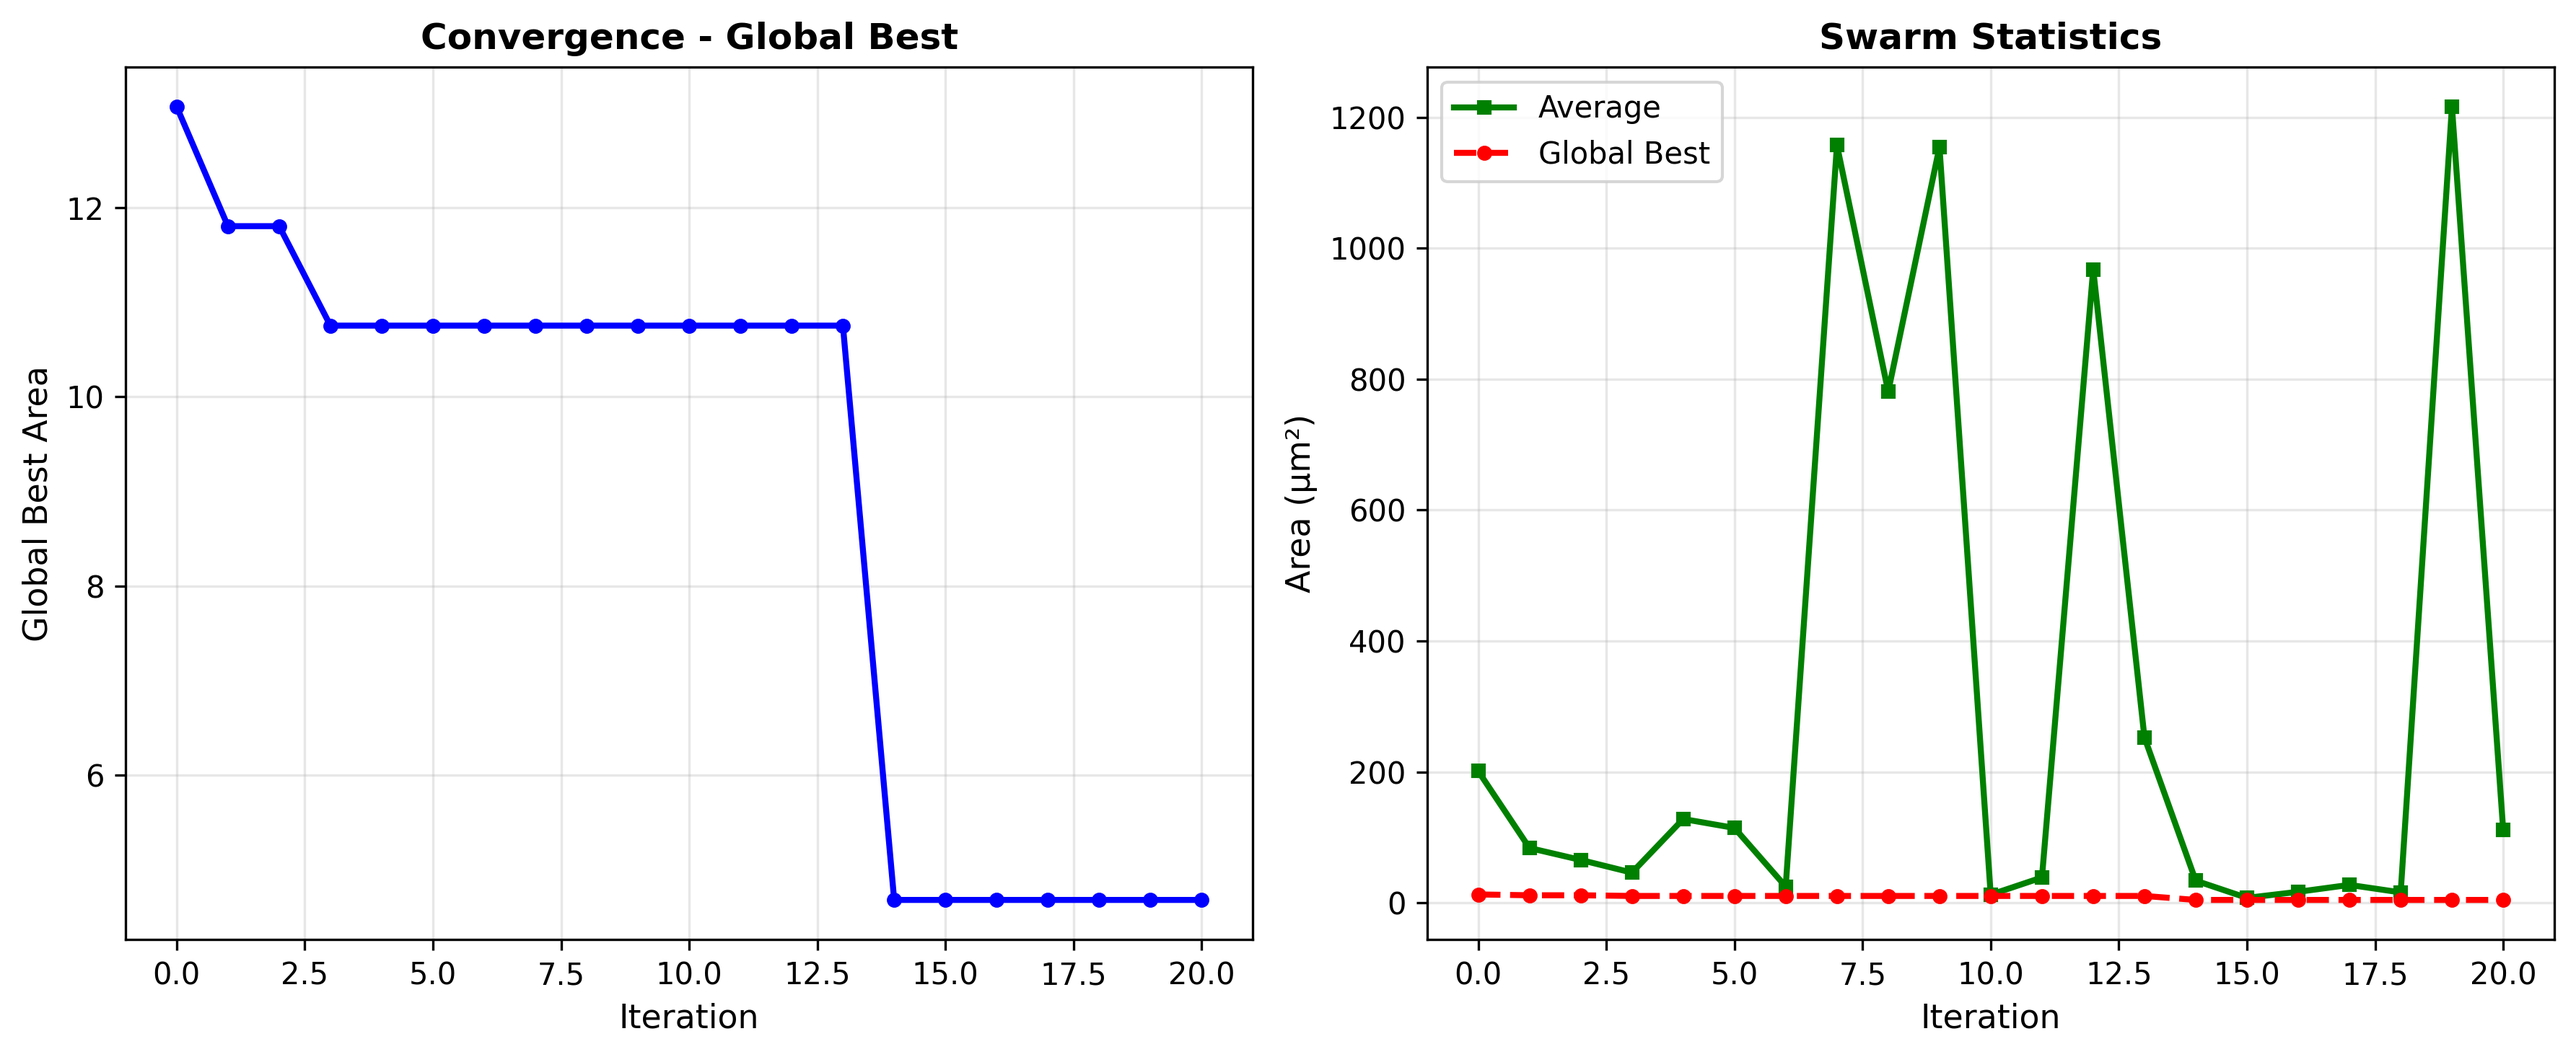
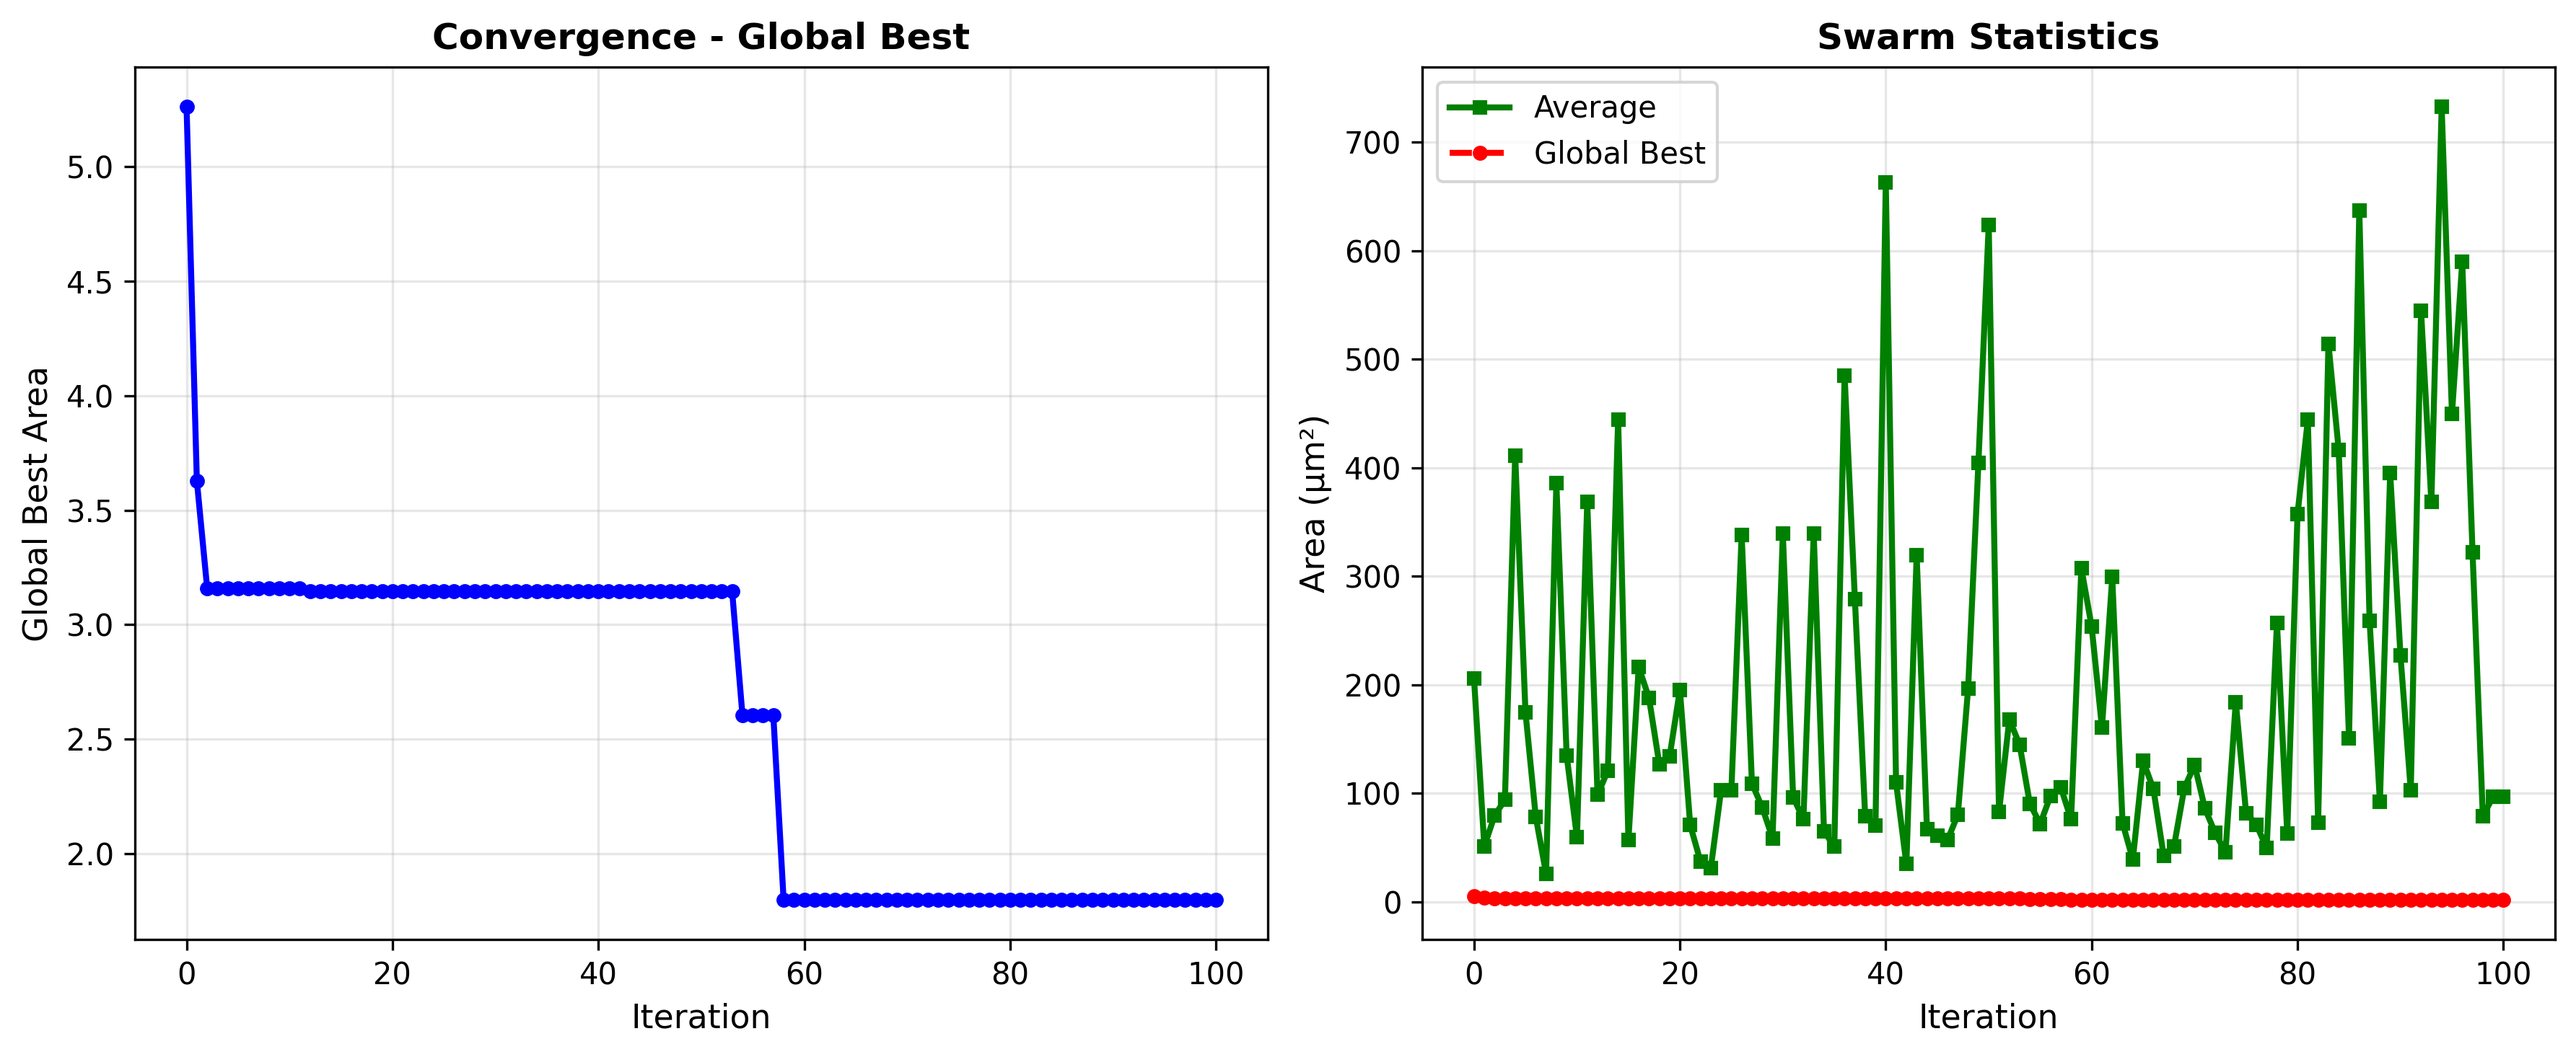
5T-OTA 20p 100i

diff --git a/Complete Framework/5T-OTA/simulator.py b/Complete Framework/5T-OTA/simulator.py
@@ -1,4 +1,6 @@
 import numpy as np
+import matplotlib.pyplot as plt
+from matplotlib.ticker import LogLocator
 
 import PySpice.Logging.Logging as Logging
 from PySpice.Spice.Netlist import Circuit
@@ -35,7 +37,7 @@ def generate_spice(params):
 ######################################################
 # Runs the specified simulation mode (AC, OP, or SLEW)
 ######################################################
-def run_simulation(mode, measurement_results):
+def run_simulation(mode, measurement_results, plots=False):
 
     circuit = Circuit('5T_OTA Simulation')
     circuit.raw_spice ="""
@@ -87,6 +89,28 @@ set no_note
         measurement_results['GBW_meas'] = gbw
         measurement_results['PM_meas'] = phase_margin
 
+
+        if plots:
+            fig, (ax1, ax2) = plt.subplots(2, 1, figsize=(12, 8), sharex=True)
+
+            ax1.semilogx(freq, gain_db, color='blue', linestyle='-')
+            ax1.set_ylabel('Gain (dB)')
+            ax1.grid(True, which="both", ls="-")
+            ax1.set_title("Bode Plot of 5T-OTA")
+
+            ax2.semilogx(freq, phase_deg, color='blue', linestyle='-')
+            ax2.set_ylabel('Phase (Degrees)')
+            ax2.set_xlabel('Frequency (Hz)')
+            ax2.grid(True, which="both", ls="-")
+            locator = LogLocator(base=10.0, numticks=15)
+            ax2.xaxis.set_major_locator(locator)
+
+            ax1.axhline(y=0, color='red', linestyle='--') 
+            ax2.axhline(y=-180, color='red', linestyle='--') 
+
+            plt.savefig('Gain_and_GBW_plot.png')
+            plt.tight_layout()
+
     if mode == 'OP':
         # Define DC Inputs (Quiescent Points)
         circuit.V('vip', 'Vip', circuit.gnd, 'DC 0.9')
@@ -134,6 +158,22 @@ set no_note
 
         measurement_results['SR_meas'] = slew
 
+        if plots:
+            fig, (ax1, ax2) = plt.subplots(2, 1, figsize=(12, 8), sharex=True)
+
+            ax1.plot(time, analysis.nodes['vip'], color='blue', linestyle='-')
+            ax1.set_ylabel('Input Voltage (V)')
+            ax1.grid(True, which="both", ls="-")
+            ax1.set_title("5T-OTA Slew Response")
+
+            ax2.plot(time, vout, color='blue', linestyle='-')
+            ax2.set_ylabel('Output Voltage (V)')
+            ax2.set_xlabel('Time (s)')
+            ax2.grid(True, which="both", ls="-")
+
+            plt.savefig('Slew_plot.png')
+            plt.tight_layout()
+
         return None
 
 ###################################################
@@ -151,7 +191,7 @@ def check_specs(measurement_results):
 #############################################################
 # Top-level function to evaluate a design given the variables
 #############################################################
-def evaluate_design(W_1, L_1, W_2, L_2, ID):
+def evaluate_design(W_1, L_1, W_2, L_2, ID, plots=False):
     """
     Accepts the 5 generated variables, runs the simulation, 
     and returns the binary result.
@@ -170,9 +210,9 @@ def evaluate_design(W_1, L_1, W_2, L_2, ID):
         generate_spice(rounded_params)
         
         # Pass the local 'current_results' dict to your simulation functions
-        run_simulation('AC', measurement_results=current_results)
-        run_simulation('OP', measurement_results=current_results)
-        run_simulation('SLEW', measurement_results=current_results)
+        run_simulation('AC', measurement_results=current_results, plots=plots)
+        run_simulation('OP', measurement_results=current_results, plots=plots)
+        run_simulation('SLEW', measurement_results=current_results, plots=plots)
         
         # Check specs and return result
         specs_met = check_specs(current_results)

diff --git a/Complete Framework/5T-OTA/main.py b/Complete Framework/5T-OTA/main.py
@@ -206,7 +206,7 @@ def main():
 
     # Final simulator verification    
     print("\nFinal Simulator Verification...")
-    final_check, final_results = evaluate_design(W_1, L_1, W_2, L_2, ID*1e6)
+    final_check, final_results = evaluate_design(W_1, L_1, W_2, L_2, ID*1e6, plots=True)
     print(f"Final design {'PASSED' if final_check else 'FAILED'} simulator check")
     
     if final_results is not None:

diff --git a/Complete Framework/5T-OTA/specs.py b/Complete Framework/5T-OTA/specs.py
@@ -13,9 +13,9 @@ PM_spec = 65
 Power_spec = 10e-6
 
 # Mixed Variable Hybrid-PSO parameters
-N_PARTICLES = 5
-MAX_ITERATIONS = 20
-MAX_VELOCITY_UPDATES = 3
+N_PARTICLES = 20
+MAX_ITERATIONS = 100
+MAX_VELOCITY_UPDATES = 5
 
 # Range of sizing variables
 gm_ID_range = (3, 20)
